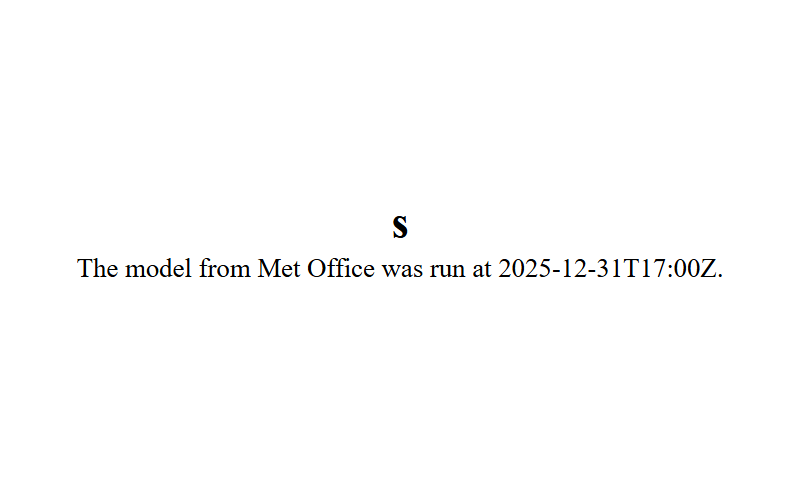
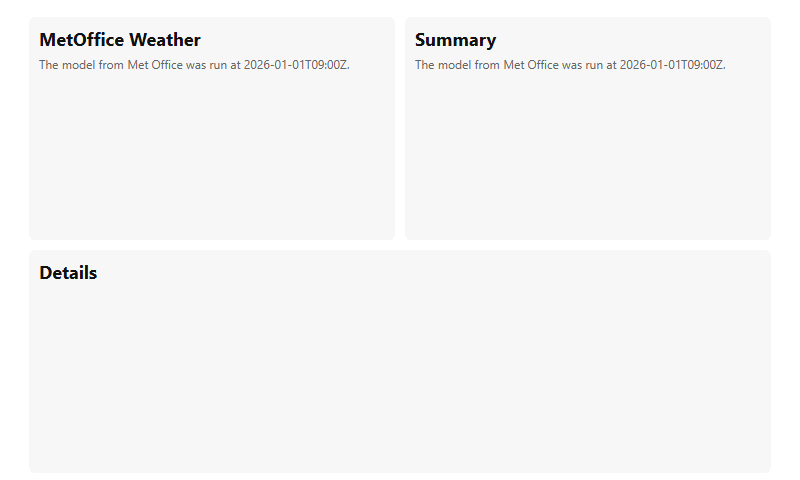
feat: add panels to display

diff --git a/src/plugins/burnsyweather/render/burnsyweather.css b/src/plugins/burnsyweather/render/burnsyweather.css
@@ -1,30 +1,39 @@
-
-.text-content {
-  display: flex;
-  flex-direction: column;
-  justify-content: center;
-  align-items: center;
-  text-align: center;
-  height: 100%;
-  width: 100%;
-  gap: 1dvh;
-  font-family: "Jost";
-  container-type: size;
+:root{
+  --w:800px;
+  --h:480px;
+  --gap:10px;
+  --pad:12px;
+  --bg:#ffffff;
+  --panel-bg:#f7f7f7;
+  --fg:#111;
+  --muted:#666;
 }
 
-.title {
-  font-weight: bold;
-  font-size: 4rem;
-  max-width: 100%;
-  font-size: min(10cqh, 8cqi);
+*{box-sizing:border-box}
+html,body{height:100%;margin:0;background:var(--bg);color:var(--fg);font-family:system-ui,Segoe UI,Roboto,Helvetica,Arial}
+
+.screen{
+  width:var(--w);
+  height:var(--h);
+  display:grid;
+  grid-template-rows: 1fr 1fr;
+  gap:var(--gap);
+  padding:var(--pad);
 }
 
-.content {
-  overflow-wrap: break-word;
-  max-width: 100%;
-  max-height: 80%;
-  font-weight: 200;
-  font-size: min(6cqh, 5cqi);
-  white-space: pre-line;
-  overflow: hidden;
-}
+.row.top{display:grid;grid-template-columns:1fr 1fr;gap:var(--gap)}
+.row.bottom{display:block}
+
+.panel{background:var(--panel-bg);padding:10px;border-radius:6px;overflow:hidden;display:flex;flex-direction:column}
+.panel-title{font-weight:700;font-size:18px;margin-bottom:6px}
+.panel-body{font-size:14px;line-height:1.2;color:var(--fg);overflow:hidden}
+.panel-body.small{font-size:12px;color:var(--muted);overflow:hidden}
+
+.panel.full{height:100%}
+
+/* Ensure panels fill their grid areas */
+.row.top > .panel{height:100%}
+
+/* Utility */
+.text-right{text-align:right}
+.text-center{text-align:center}

diff --git a/src/plugins/burnsyweather/render/burnsyweather.html b/src/plugins/burnsyweather/render/burnsyweather.html
@@ -1,8 +1,23 @@
 {% extends "plugin.html" %}
 
 {% block content %}
-<div class="text-content">
-  <div class="title">{{ title }}</div>
-  <div class="content">{{ content | safe }}</div>
+<div class="screen">
+  <div class="row top">
+    <div class="panel left">
+      <div class="panel-title">{{ title }}</div>
+      <div class="panel-body small">{{ content | safe }}</div>
+    </div>
+    <div class="panel right">
+      <div class="panel-title">Summary</div>
+      <div class="panel-body small">{{ content | safe }}</div>
+    </div>
+  </div>
+
+  <div class="row bottom">
+    <div class="panel full">
+      <div class="panel-title">Details</div>
+      <div class="panel-body">{{ content | safe }}</div>
+    </div>
+  </div>
 </div>
 {% endblock %}
